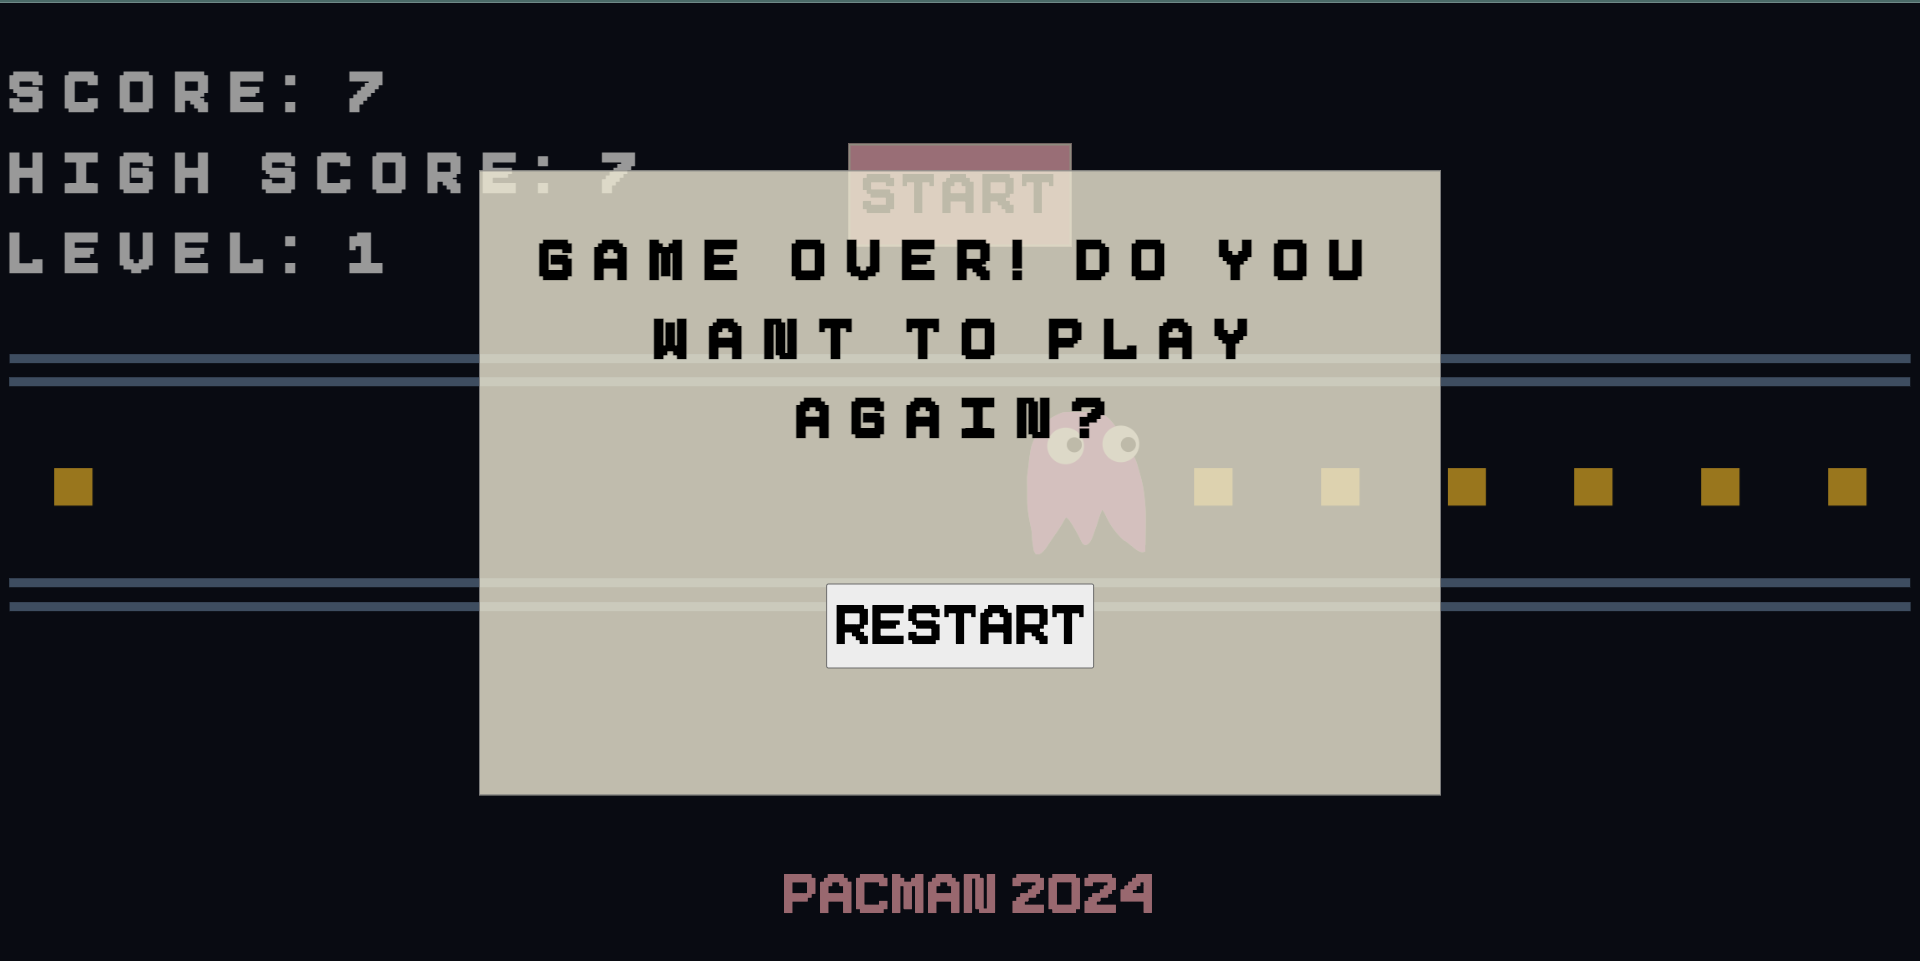
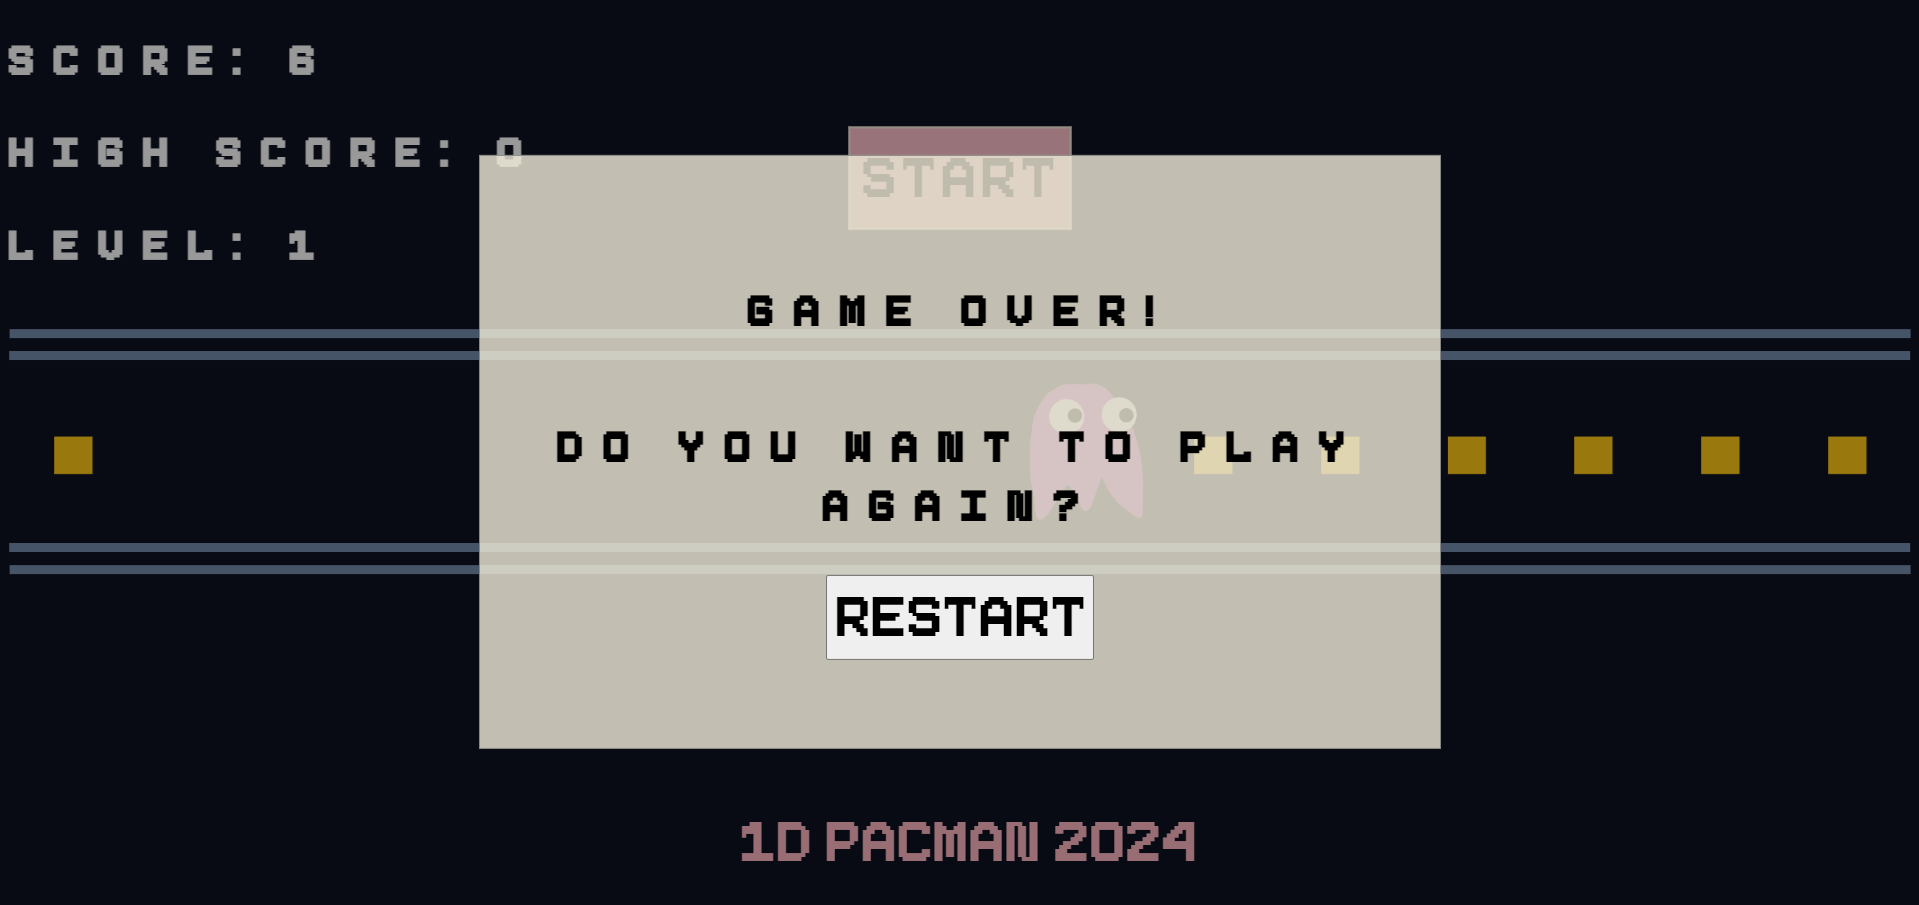
Fix styling; update MD files

diff --git a/index.html b/index.html
@@ -3,10 +3,10 @@
     <head>
         <!--META DATA-->
         <meta charset="UTF-8">
-        <meta name="author" content="Amy Huang">
+        <meta name="author" content="Amy Huang & Anoushka Jawale">
         <meta name="creation_date" content="May 28, 2024">
-        <meta name="last_updated" content="June 6, 2024">
-        <meta name="description" content="This is my work for lab 3 of CSI 3140.">
+        <meta name="last_updated" content="June 18, 2024">
+        <meta name="description" content="This is our work for Assignment 2 of CSI 3140, built off of Amy's Lab 3 content.">
         <meta http-equiv="content-type" content="text/html; charset=UTF-8">
         <meta name="viewport" content="width=device-width, initial-scale=1.0">
 
@@ -24,13 +24,13 @@
     </head>
 
     <body>
-        <!--GAME STATS-->
-        <div>
+        <!--HEADER/GAME STATS-->
+        <header>
             <h1 id="score">Score: 0</h1>
             <h1 id="high-score">High Score: 0</h1>
             <h1 id="level">Level: 1</h1>
             <button id="begin-button" onclick="resetGame();">Start</button>
-        </div>
+        </header>
 
         <!--GAME BOARD-->
         <div class="game-borders" style="height: 25vh;">
@@ -43,37 +43,35 @@
 
         <!--INSTRUCTIONS MODAL -->
         <div id="instructionsModal" class="modal">
-            <div class="modal-content">
+            <span class="modal-content">
                 <h1 class="modal-text">Instructions:</h1>
-                <br>
                 <h1 class="modal-text">Use A/D or left/right arrow keys to change direction!</h1>
+                <h2 class="modal-text">Click outside to START.</h2>
                 <br>
-                <h2 class="modal-instruction-content">Click outside to START.</h2>
-                <br>
-            </div>
+            </span>
         </div>
 
         <!--GAME OVER MODAL -->
         <div id="gameOverModal" class="modal">
-            <div class="modal-content">
-                <h1 class="modal-text">Game over! Do you want to play again?</h1>
-            </div>
-            <button id="restart">Restart</button>
+            <span class="modal-content">
+                <h1 class="modal-text">Game over!</h1>
+                <h1 class="modal-text">Do you want to play again?</h1>
+                <button id="restart">Restart</button>
+            </span>
         </div>
-
 
         <!--AUDIOS-->
         <audio id="bgm" src="resources/audio/beat_pacman.mp3" loop></audio>
         <audio id="sfx-fruit" src="resources/audio/sfx_fruit.mp3"></audio>
         <audio id="sfx-level-up" src="resources/audio/sfx_level-up.mp3"></audio>
         <audio id="sfx-game-over" src="resources/audio/sfx_game-over.mp3"></audio>
-       
-       
+
+        <!--FOOTER-->
+        <footer>
+            <p>1D PACMAN 2024</p>
+        </footer>
 
         <!--SCRIPT-->
         <script type="text/javascript" src="js/index.js"></script>
     </body>
-    <footer>
-        <p>PACMAN 2024</p>    
-    </footer>
 </html>

diff --git a/css/index.css b/css/index.css
@@ -1,28 +1,44 @@
 /*
-Author: Amy Huang
-Creation Date: June 28, 2024
-Last Updated: May 6, 2024
+Author: Amy Huang & Anoushka Jawale
+Creation Date: May 28, 2024
+Last Updated: June 18, 2024
 Description: This CSS file contains styles for the index.html file.
 */
 
 /* GENERAL STYLES */
 @font-face {
-    font-family: 'Pixieboy'; /* The name you want to give to the font */
-    src: url('../fonts/Pixeboy-z8XGD.ttf') format('truetype'); /* Path to your .ttf file */
-    font-weight: normal; /* Optional: specify the font weight */
-    font-style: normal; /* Optional: specify the font style */
+    font-family: 'Pixieboy';
+    src: url('../fonts/Pixeboy-z8XGD.ttf') format('truetype');
+    font-weight: normal;
+    font-style: normal;
 }
 
 body {
     background-color: #0D1321;
+    overflow: hidden;
 }
 
-h1 {
+header {
     font-family: 'Pixieboy', sans-serif;
     color: white;
-    font-size: 4vw;
+    font-size: 3vh;
     max-height: 3vh;
     letter-spacing: 1vw;
+}
+
+p {
+    padding: 0;
+    font-family: 'Pixieboy', sans-serif;
+    font-size: 4vw;
+    max-height: 3vh;
+}
+
+footer {
+    position: absolute;
+    bottom: 0;
+    width: 100%;
+    color: lightpink;
+    text-align: center;
 }
 
 /* GAME DESIGN */
@@ -91,6 +107,7 @@ h1 {
 }
 
 .modal-content {
+    display: flex;
     position: absolute;
     width: 50vw;
     height: 65vh;
@@ -98,31 +115,26 @@ h1 {
     left: 50%;
     transform: translate(-50%, -50%);
 
-    background-color: rgb(240, 235, 216, 0.8);
+    flex-direction: column;
+    justify-content: center;
+    align-items: center;
+    background-color: rgba(240, 235, 216, 0.8);
     border: 1px solid #888888;
-    font-family: 'Pixieboy', sans-serif;
-    text-align: center;
 }
 
-.modal-instruction-content {
-    position: absolute;
-    text-align: center;
-    top: 80%;
-    left: 50%;    
-    font-size: 30px;
-    transform: translate(-50%, -50%);
-    font-family: 'Pixieboy', sans-serif;
-}
 .modal-text {
     color: #000000;
+    font-family: 'Pixieboy', sans-serif;
+    font-size: clamp(1rem, 3vw, 5rem);
+    text-align: center;
+    letter-spacing: 1vw;
+}
+
+h2.modal-text {
+    font-size: clamp(1rem, 2vw, 3rem);
 }
 
 #restart {
-    position: absolute;
-    top: 65%;
-    left: 50%;
-    transform: translate(-50%, -50%);
-
     font-family: 'Pixieboy', sans-serif;
     color: #000000;
     justify-content: center;
@@ -144,22 +156,4 @@ h1 {
 /* AUDIO */
 audio {
     display: none;
-}
-
-
-
-footer {
-    position: absolute;
-    bottom: 0;
-    width: 100%;
-    color: lightpink;
-    text-align: center;
-}
-
-p {
-    padding: 0;
-    font-family: 'Pixieboy', sans-serif;
-    font-size: 4vw;
-    max-height: 3vh;
-    
 }

diff --git a/js/index.js b/js/index.js
@@ -1,5 +1,5 @@
 /*
-Author: Amy Huang
+Author: Amy Huang & Anoushka Jawale
 Creation Date: May 28, 2024
 Last Updated: June 6, 2024
 Description: This JavaScript file contains functions for manipulating the index.html file.

diff --git a/docs/design_system.md b/docs/design_system.md
@@ -1,32 +1,32 @@
 # Pacman Game Design System
 
-This document outlines the visual design system for the Pacman game we did for Assignment 2. It includes the structural components, color palette, and font styles used throughout the game.
+This document outlines the visual design system for the 1D Pacman game we created for CSI 3140 Assignment 2.
+It includes the structural components, colour palette, and font styles used throughout the game.
 
 ## Structural Components
-- **Header**: Located at the top of the screen, contains scoreboar which displays the current score, high score, and current level, as well as the start button. 
+- **Header**: Located at the top of the screen, it contains the scoreboard, which displays the current score, high score, and current level, as well as the start button. 
   ![Header Design](design_system/header_design.png)
-- **Initial Instruction Menu**: The initial menu that explains the game controls and how to start the game. 
+- **Initial Instruction Menu**: The initial menu displays as an overlay modal that explains the game controls and how to start the game.
   ![Instruction Menu Design](design_system/main_menu_instructions.png)
-- **Play Area**: The middle area of the game, smain area where the game is played. 
+- **Play Area**: The middle area of the game board is the main area where the game is played. It displays Pacman, the ghost, the pellets, and the fruit.
   ![Play Area Design](design_system/play_area_design.png)
-- **Restart Menu**: Appears when game is over.  
+- **Restart Menu**: This overlay modal appears when the game is over and contains a restart button.
   ![Restart Menu Design](design_system/game_over.png)
-- **Footer**: Located at the bottom, includes name of game. 
+- **Footer**: Located at the bottom, it includes the name of game.
   ![Footer Design](design_system/footer_design.png)
 
 
-## Color Palette
-- **Primary Color**: #0D1321 (Dark Blue) - Used for the background color of the body.
-- **Secondary Color**: rgb(240, 235, 216, 0.8) (Beige) - Used for the backgrounds of nitial instruction menu and restart menu.
-- **Accent Color**: lightpink - Used for the background color of #begin-button:hover and the color of footer.
-- **Text Color**: white - Used for the color of score board display
+## Colour Palette
+- **Primary Colour**: #0D1321 (Dark Blue) — Used for the background colour of the game board body.
+- **Secondary Colour**: rgb(240, 235, 216, 0.8) (Beige) — Used for the backgrounds of the initial instruction menu and the restart menu.
+- **Accent Colour**: Lightpink — Used for the background colour of the hover effect for the start button and the colour of the footer.
+- **Text Colour**: White — Used for the colour of the score board display. // Black — Used for the modal text in the instructions/restart menus.
 
 ## Fonts and Sizes
-- **Primary Font**: 'Pixieboy', sans-serif - Used for all text contained in game (Used for h1, #begin-button, .modal-content, modal-instruction-content, #restart, and p elements) 
-
+- **Primary Font**: 'Pixieboy', sans-serif - Used for all text contained in game (Used for h1, #begin-button, modal-text, #restart, and p elements) 
 
 ## Assets
 All design-related assets are located in the `/docs/design_system` directory.
 - Header design: `header_design.png`
 - Footer design: `footer_design.png`
-- Play area design: `play_area_design.png`...etc. 
+- Play area design: `play_area_design.png`

diff --git a/README.md b/README.md
@@ -1,12 +1,12 @@
-# Pacman Game
+# 1D Pacman Game
 
 ## Overview
-Pacman is a classic game where a Pacman character tries to gain as many point as possible while avoiding the ghost. This project is an implementation of Pacman in JavaScript, HTML, and CSS.
+Pacman is a classic game where a Pacman character tries to gain as many points as possible while avoiding the ghost. This project is an implementation of 1D Pacman in JavaScript, HTML, and CSS.
 
 ## How to Play
-1. **Start the Game:** Once you have read the instructions, click outside the window to go to the game. Click the "Start" button to start the game.
-2. **Avoid the ghost and eat the pellets:** Avoid the ghost by switching directions according to the instructions.You can advance in levels if you keep beating the ghost.  
-3. **Game Over:** The game ends when your Pacman bumps into the ghost. A restart window will appear. Click Restart button to start from level 1. 
+1. **Start the Game:** Once you have read the instructions, click outside the modal to enter the game board. Click the "Start" button to begin the game.
+2. **Avoid the ghost and eat the pellets:** Avoid the ghost by switching directions according to the instructions.You can advance in levels if you continue beating the ghost.
+3. **Game Over:** The game ends when your Pacman bumps into the ghost. A restart modal will appear. Click the "Restart" button to start from level 1.
 
 ## User Interface
 The game interface is designed to be user-friendly. Below are screenshots of various states of the game interface.
